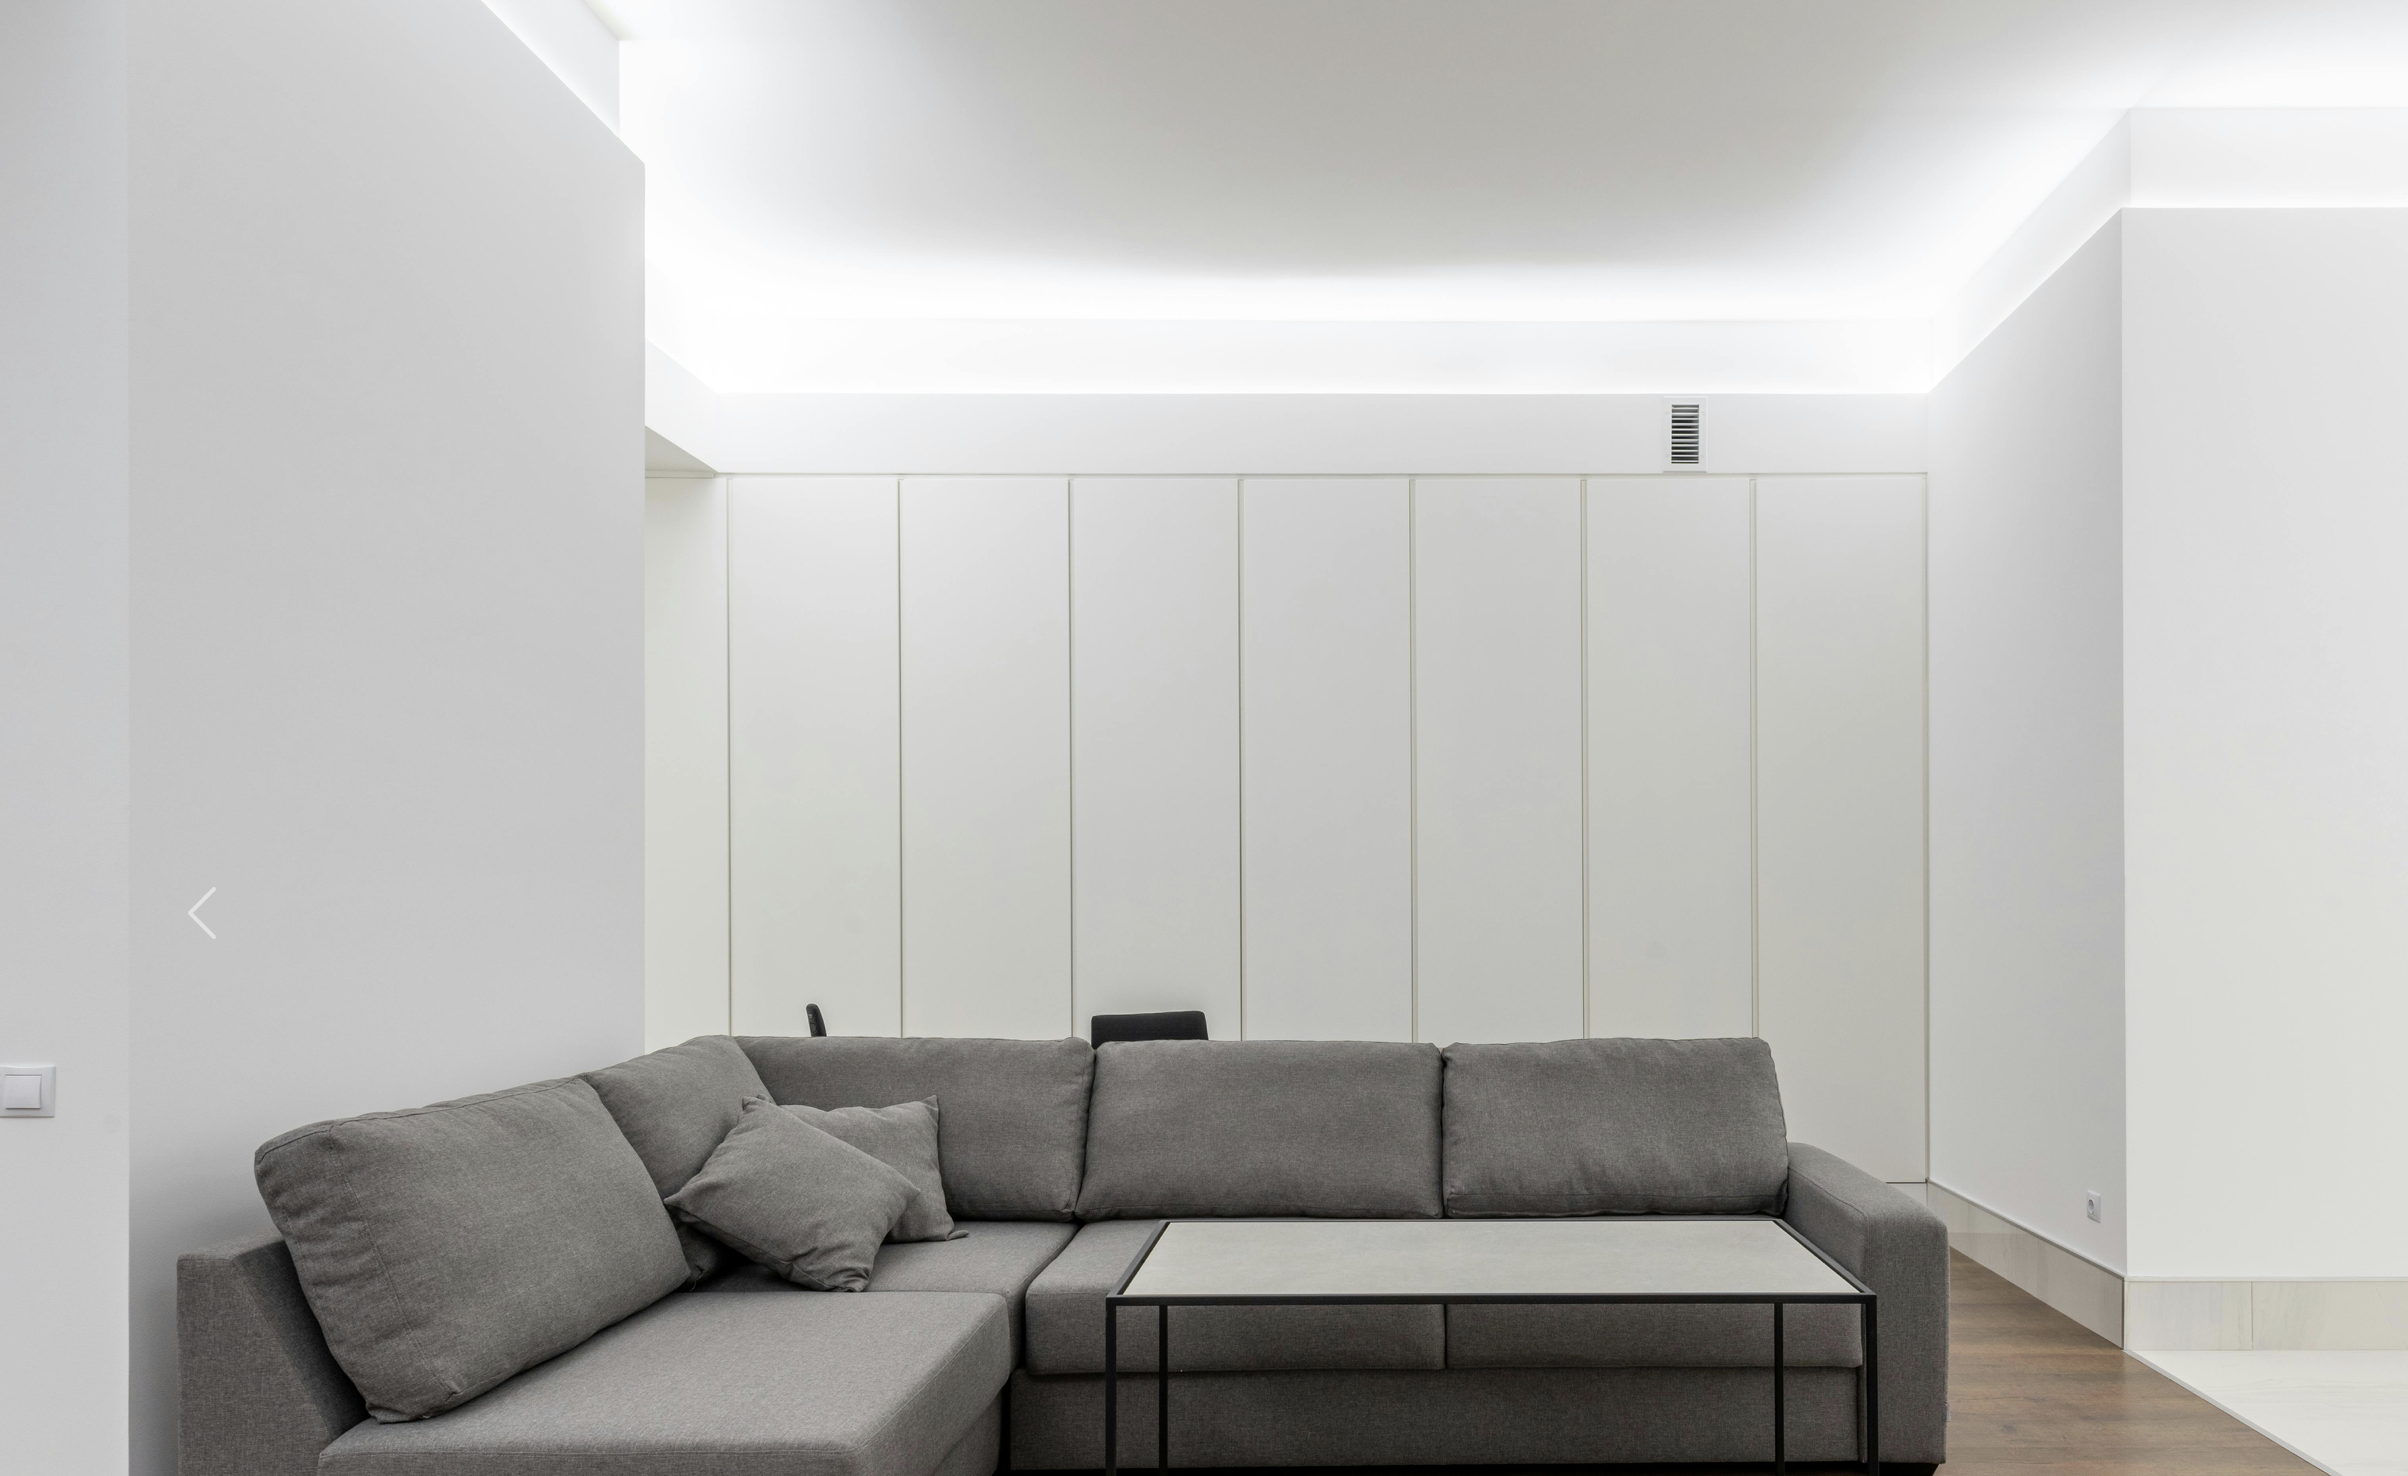
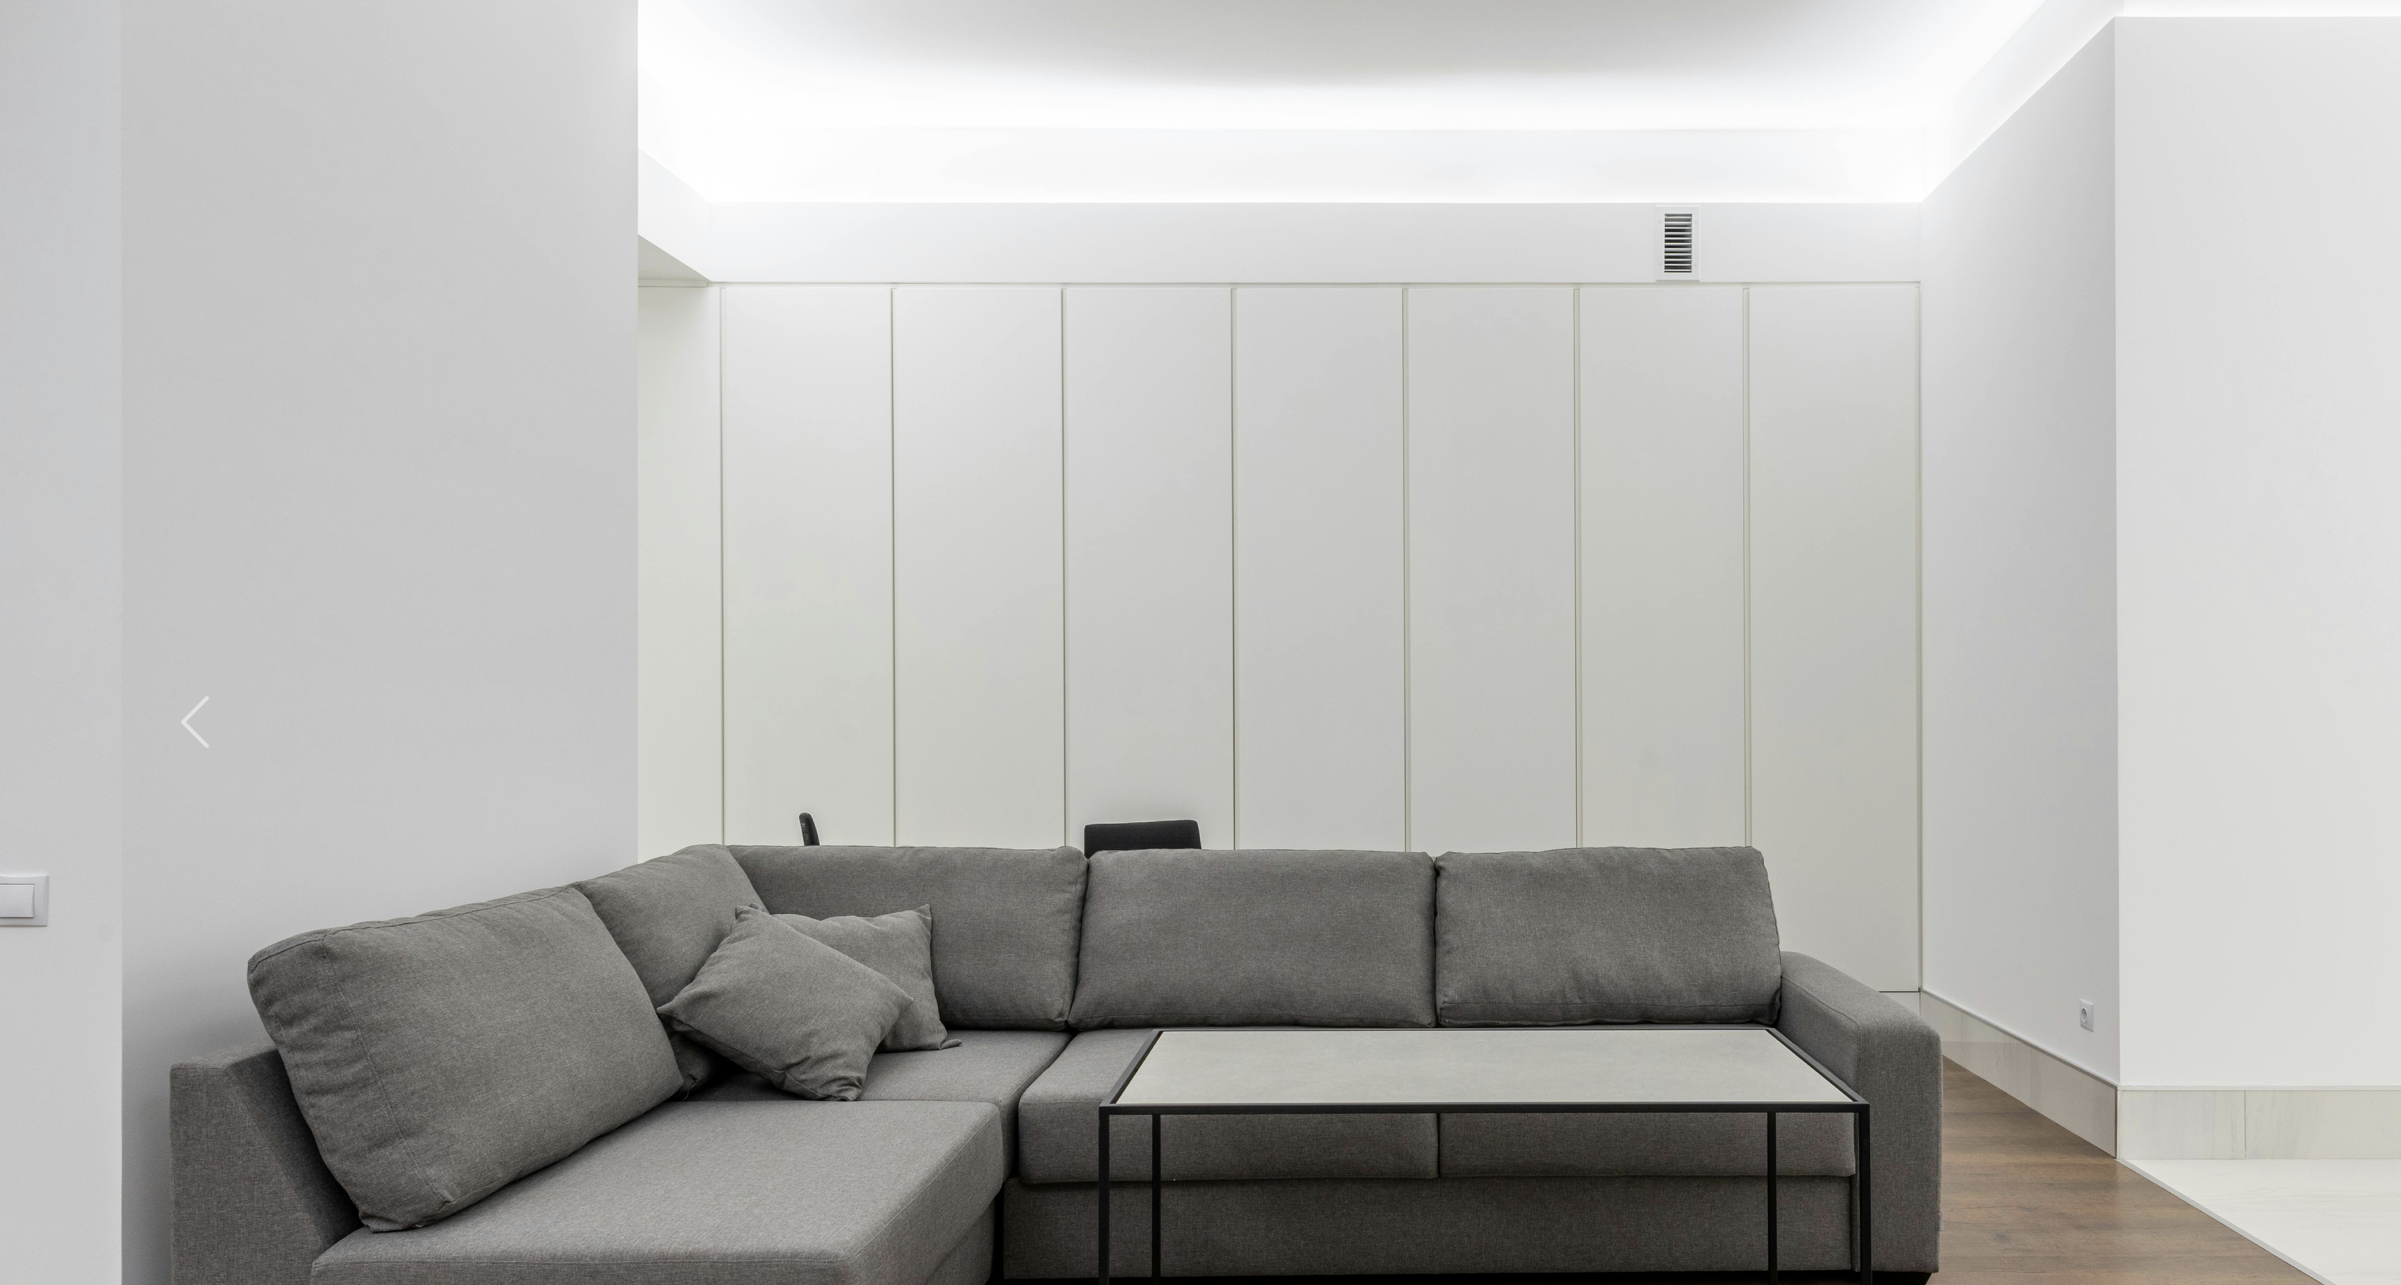
Update 2025

diff --git a/index.html b/index.html
@@ -32,10 +32,11 @@
 				<img src="images/m.png" alt="Your Name" class="profile-photo">
 				<h3>Who is this girl?</h3>
 				<p class="bio">
-					Hi, I'm Saikal, a Computer Science [Data Analysis] student at the University of Messina, Italy.
-					 I excel at transforming complex data into actionable insights and developing innovative software solutions. 
-					 With a strong foundation in coding and analytical thinking, 
-					 I'm eager to contribute to dynamic teams and tackle diverse challenges in the tech industry.
+					I'm Saikal, a Computer Science student at the University of Messina in Italy, 
+					currently participating in an exchange program at the Warsaw University of Technology in Poland.
+					I’m passionate about building clean, efficient, and scalable software solutions. With a strong foundation 
+					in programming and problem-solving, I’m eager to contribute to innovative engineering teams, 
+					grow as a developer, and take on real-world challenges in the tech industry.
 				</p>
 				
 				
@@ -51,26 +52,39 @@
 					</div>
 				</div>
 				<div class="tech-skill">
-					<label>Django REST Framework</label>
+					<label>Java</label>
 					<div class="progress-bar">
 						<div class="progress" style="width: 80%; background-color: #C59F4B;"></div>
 					</div>
 				</div>
 				<div class="tech-skill">
+					<label>C++</label>
+					<div class="progress-bar">
+						<div class="progress" style="width: 80%; background-color: #C59F4B;"></div>
+					</div>
+				</div>
+				<div class="tech-skill">
+					<label>Spring Boot Framework</label>
+					<div class="progress-bar">
+						<div class="progress" style="width: 70%; background-color: #C59F4B;"></div>
+					</div>
+				</div>
+				<div class="tech-skill">
+					<label>Django REST Framework</label>
+					<div class="progress-bar">
+						<div class="progress" style="width: 90%; background-color: #C59F4B;"></div>
+					</div>
+				</div>
+				<div class="tech-skill">
 					<label>SQL & NoSQL</label>
 					<div class="progress-bar">
-						<div class="progress" style="width: 75%; background-color: #C59F4B;"></div>
+						<div class="progress" style="width: 80%; background-color: #C59F4B;"></div>
 					</div>
 				</div>
-				<div class="tech-skill">
-					<label>Java</label>
-					<div class="progress-bar">
-						<div class="progress" style="width: 55%; background-color: #C59F4B;"></div>
-					</div>
-				</div>
+				
                 
 				<div class="tech-skill">
-					<label>HMTL & CSS</label>
+					<label>HMTL & CSS, JS</label>
 					<div class="progress-bar">
 						<div class="progress" style="width: 80%; background-color: #C59F4B;"></div>
 					</div>
@@ -100,15 +114,87 @@
 	
 	<section id="projects">
 		<h2>Projects</h2>
+
+
+		
+
+
+
+
+		
 	
 		<!-- Project Cards -->
 		<div class="project-cards">
+
+
+			<!-- Example Card 2 -->
+		<div class="card" data-category="python-django">
+
+			<div class="card-header">
+				<h3 class="project-title">Movie Review</h3>
+			</div>
+			<img src="images/main.png" alt="Furniro - E-Commerce Online Store" class="card-image">
+			<div class="card-content">
+				<p class="tech">React & Spring Boot</p>
+				<p>A full-stack web application for browsing, reviewing, and rating movies. Built with React frontend and a Java, Spring Boot/MongoDB backend.</p>
+				<a href="https://github.com/saikaldi/MovieReview?tab=readme-ov-file" class="view-btn" target="_blank">View Project</a>
+			</div>
+		</div>
+
+<!-- Example Card 1 -->
+<div class="card" data-category="data-analyst">
+	<div class="card-header">
+		<h3 class="project-title">Job Search Platform</h3>
+	</div>
+	<img src="images/jobs-main.png" alt="London Bike Rides" class="card-image">
+	<div class="card-content">
+		<p class="tech">Django & JavaScript, Jquery</p>
+		<p>Analyzed London bike-sharing data with interactive visualizations to reveal insights.</p>
+		<a href="https://github.com/saikaldi/JobPlatform" class="view-btn" target="_blank">View Project</a>
+	</div>
+</div>
+
+			<!-- Example Card 2 -->
+		<div class="card" data-category="python-django">
+
+			<div class="card-header">
+				<h3 class="project-title">Furniro - Online Store</h3>
+			</div>
+			<img src="images/staore.png" alt="Furniro - E-Commerce Online Store" class="card-image">
+			<div class="card-content">
+				<p class="tech">Django REST</p>
+				<p>A Django-based online store using REST API.Features product browsing, cart management, and order processing.</p>
+				<a href="https://github.com/saikaldi/OnlineStoreFurniro" class="view-btn" target="_blank">View Project</a>
+			</div>
+		</div>
+
+		<!-- Example Card 2 -->
+		<div class="card" data-category="python-django">
+			<div class="card-header">
+				<h3 class="project-title">Machine Learning Project</h3>
+			</div>
+			<img src="images/pexels-tara-winstead-8386440.jpg" alt="Furniro - E-Commerce Online Store" class="card-image">
+			<div class="card-content">
+				<p class="tech">Python & Pandas, NumPy, Sklearn</p>
+				<p>Machine Learning project involved analyzing a dataset to predict a target variable, using features. 
+					The goal was to apply machine learning techniques to gain insights and make predictions that could inform business strategies.</p>
+				<a href="https://github.com/saikaldi/MachineLearningCourse" class="view-btn" target="_blank">View Project</a>
+			</div>
+		</div>
+
+		
+
+	
+
+
+
+
 			<!-- Example Card 1 -->
 			<div class="card" data-category="data-analyst">
 				<div class="card-header">
 					<h3 class="project-title">LondonBikeRides</h3>
 				</div>
-				<img src="images/caption.jpg" alt="London Bike Rides" class="card-image">
+				<img src="images/byecicle.jpg" alt="London Bike Rides" class="card-image">
 				<div class="card-content">
 					<p class="tech">Python & Tableau</p>
 					<p>Analyzed London bike-sharing data with interactive visualizations to reveal insights.</p>
@@ -116,25 +202,14 @@
 				</div>
 			</div>
 	
-			<!-- Example Card 2 -->
-			<div class="card" data-category="python-django">
-				<div class="card-header">
-					<h3 class="project-title">Furniro - Online Store</h3>
-				</div>
-				<img src="images/staore.png" alt="Furniro - E-Commerce Online Store" class="card-image">
-				<div class="card-content">
-					<p class="tech">Django REST</p>
-					<p>A Django-based online store using REST API.Features product browsing, cart management, and order processing.</p>
-					<a href="https://github.com/saikaldi/OnlineStoreFurniro" class="view-btn" target="_blank">View Project</a>
-				</div>
-			</div>
+			
 	
 			<!-- Example Card 3 -->
 			<div class="card" data-category="script">
 				<div class="card-header">
 					<h3 class="project-title">Movie Dataset Analysis</h3>
 				</div>
-				<img src="images/movies.webp" alt="Movie Dataset Analysis" class="card-image">
+				<img src="images/pexels-cottonbro-3945317.jpg" alt="Movie Dataset Analysis" class="card-image">
 				<div class="card-content">
 					<p class="tech">Python & Pandas</p>
 					<p>Uncovered trends in movie popularity and ratings, including data cleaning, exploratory analysis, and visualizations</p>
@@ -143,7 +218,7 @@
 			</div>
 	
 			<!-- Add additional project cards here -->
-		</div>
+		
 
 
 		<!-- Example Card 2 -->
@@ -151,7 +226,7 @@
 			<div class="card-header">
 				<h3 class="project-title">IMPEXCORP - E-commerce website</h3>
 			</div>
-			<img src="images/car.jpg" alt="Furniro - E-Commerce Online Store" class="card-image">
+			<img src="images/pexels-alexgtacar-745150-1592384.jpeg" alt="Furniro - E-Commerce Online Store" class="card-image">
 			<div class="card-content">
 				<p class="tech">Django REST</p>
 				<p>Developed during an internship, this Django-based online store uses REST API. I designed and implemented the APIs for product browsing, cart management, and order processing.</p>
@@ -159,7 +234,7 @@
 			</div>
 		</div>
 
-
+	</div>
 
 	</section>
 	
@@ -177,7 +252,7 @@
 				<a href="https://github.com/saikaldi" target="_blank">
 					<img src="images/github.png" alt="GitHub" class="social-icon">
 				</a>
-				<a href="mailto:saikalulukbek24@gmail.com">
+				<a href="mailto:kyzsaikalulukbek@gmail.com">
 					<img src="images/gmail.png" alt="Gmail" class="social-icon">
 				</a>
 			</div>
@@ -186,7 +261,7 @@
 		
 
     <footer>
-        <p>&copy; 2024 Kyz Saikal</p>
+        <p>&copy; 2025 Kyz Saikal</p>
     </footer>
 
     <script src="script.js"></script>

diff --git a/style.css b/style.css
@@ -16,7 +16,7 @@ h1, h2 {
 
 /* Fixed Background with Overlay */
 .background {
-    /* background: url('/images/bg.jpg') no-repeat center center fixed; */
+    background: url('images/bg.jpg') no-repeat center center fixed;
     background-size: cover;
     position: fixed;
     top: 0;
@@ -215,6 +215,7 @@ label{
     box-shadow: 0 4px 8px rgba(0, 0, 0, 0.1);
     display: flex;
     flex-direction: column;
+    margin-top: 40px;
 }
 
 .card-header {
@@ -304,8 +305,6 @@ footer {
 }
 
 
-
-
 /* Responsive Media Queries */
 
 /* Tablets and Small Screens */
@@ -374,3 +373,4 @@ footer {
         height: 150px;
     }
 }
+
